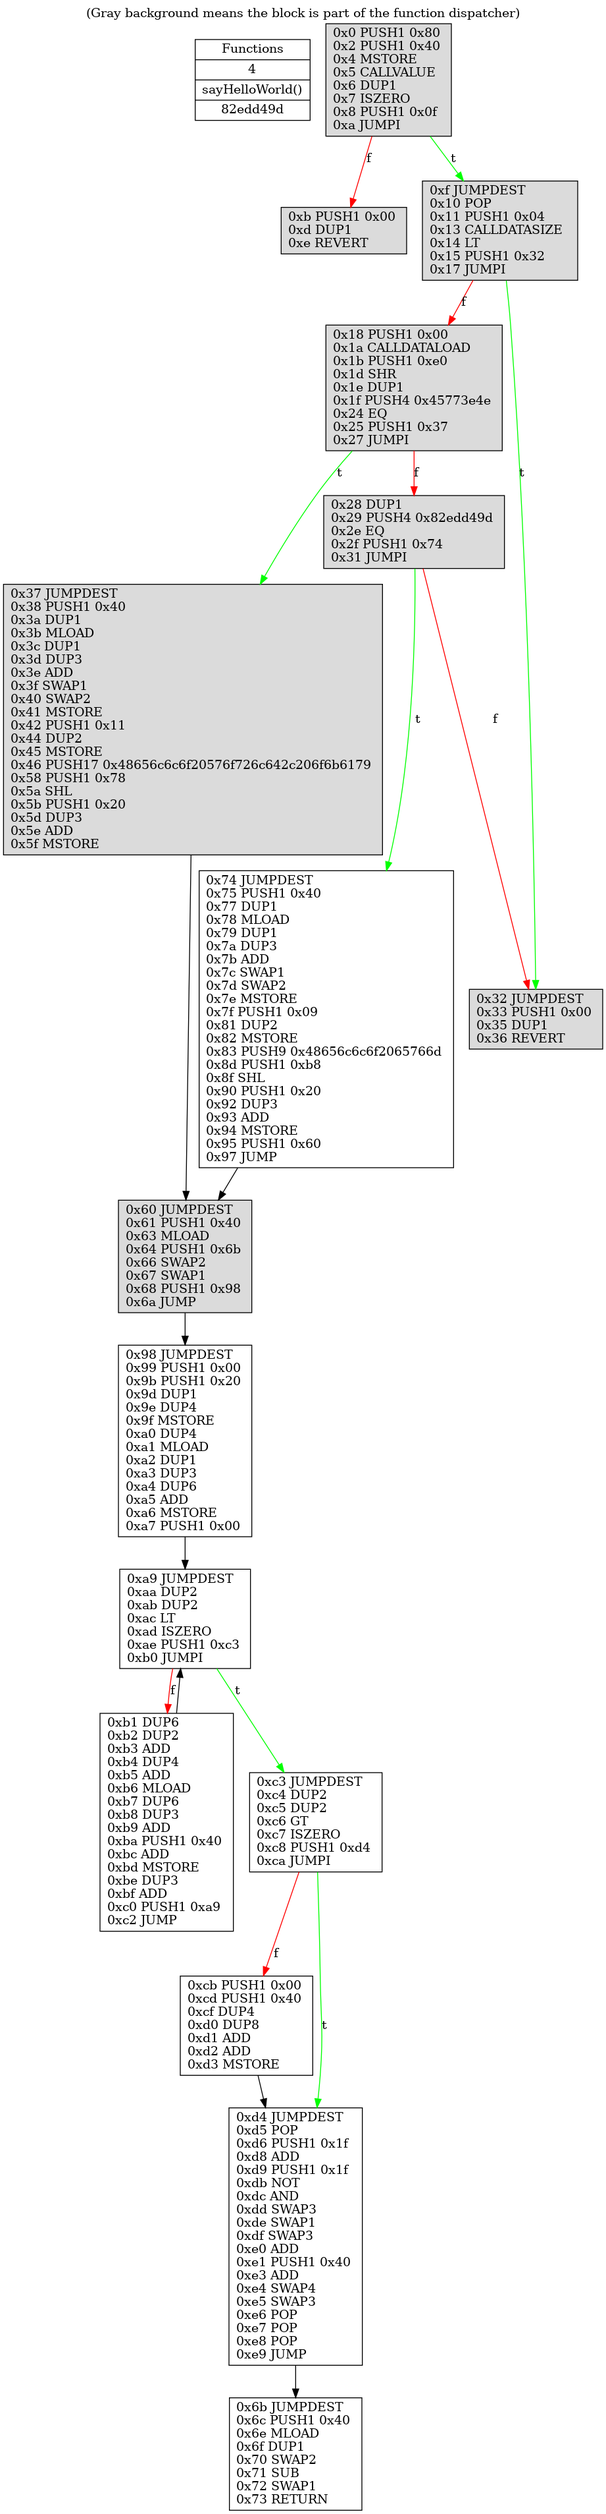
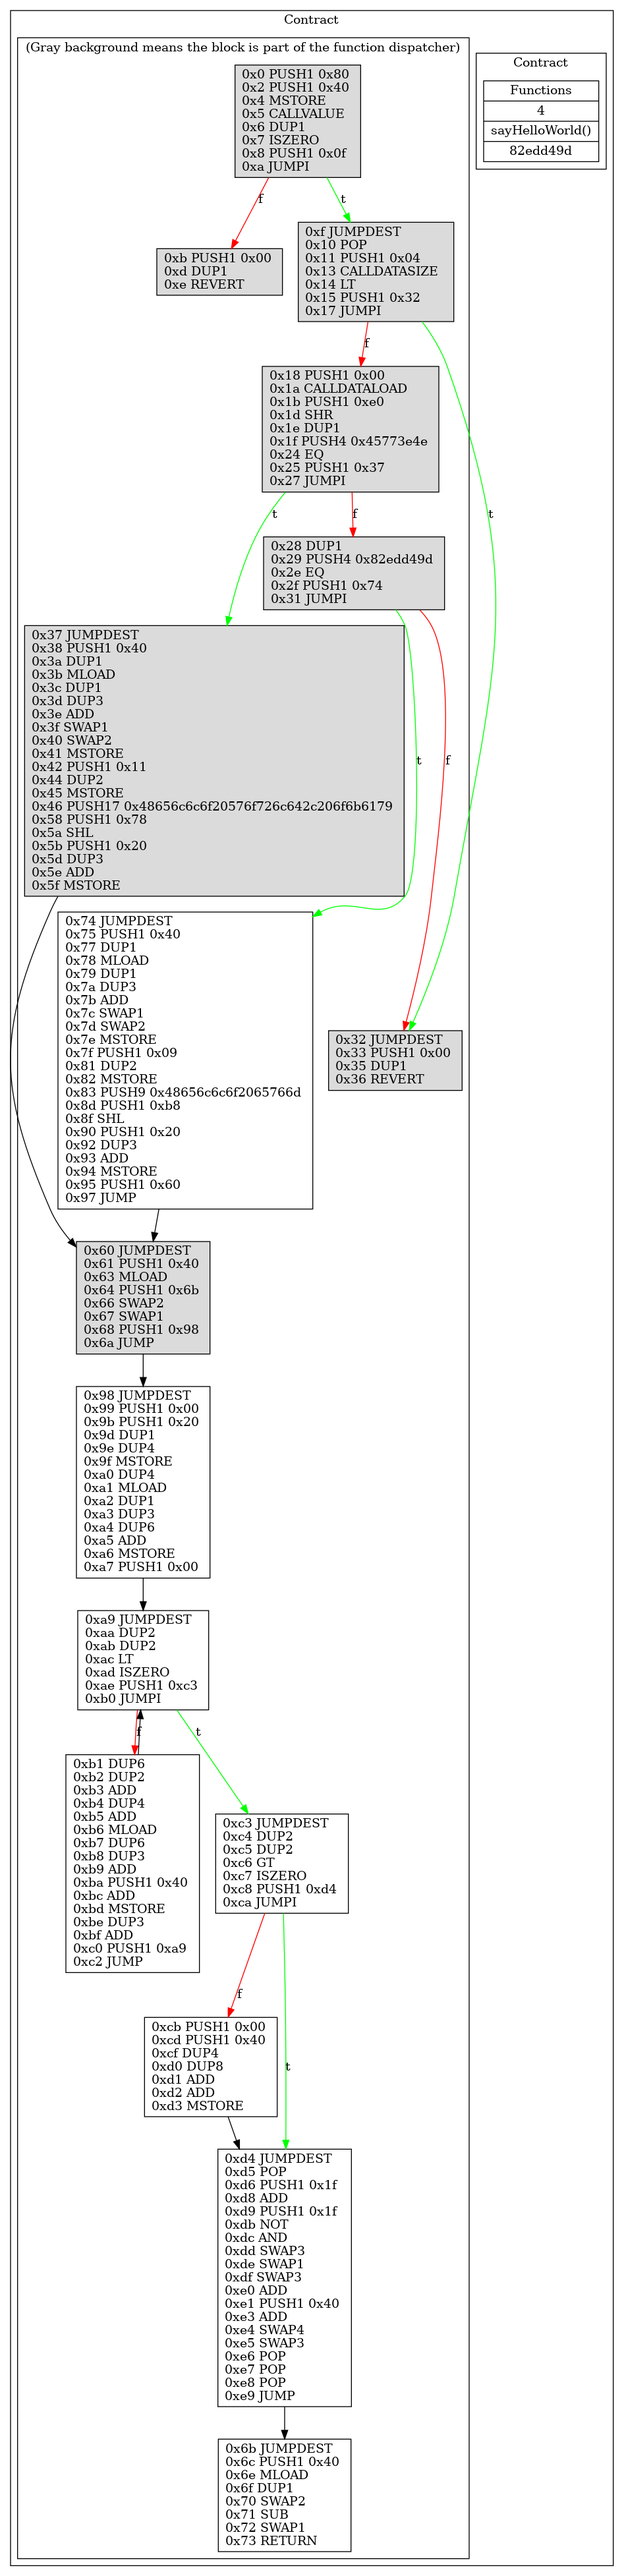
script for comparing vyper and solc cfg

Changed region(s): [[0.0, 0.0, 1.0, 1.0], [0.0608, 0.0, 0.0912, 0.0312]]

diff --git a/tiny-evm-decompiler/src/helpers/getContractPath.ts b/tiny-evm-decompiler/src/helpers/getContractPath.ts
@@ -2,25 +2,44 @@ import { parseArgs } from "node:util";
 import path from 'path';
 import fs from 'fs';
 
-export function getContractPath(dirname: string): Buffer {
+export function getContractPath(dirname: string): {
+    contract: Buffer,
+    output?: string
+} {
     const options = {
         contract: {
             type: "string",
             short: "c"
+        },
+        output: {
+            type: "string",
+            short: "o",
+            default: "cfg.json",
         }
     };
-    const {
-        values: { contract: contractPath },
+    let {
+        values: { contract: contractPath, output },
     } =
         // @ts-ignore
-        parseArgs({ options });
+        (parseArgs({ options })) as {
+            values: {
+                contract?: string;
+                output?: string;
+            }
+        };
+    if (!output){
+        output = 'cfg.json'
+    }
 
 
     if (!contractPath || typeof contractPath !== 'string') {
         throw new Error('No contract path');
-    }
+    } 
     const absContractPath = path.join(dirname, contractPath);
     // assumes build from forge
     const contract = JSON.parse(fs.readFileSync(absContractPath).toString('utf-8'))["deployedBytecode"]["object"].replace('0x', '');
-    return Buffer.from(contract, 'hex');
+    return {
+        contract: Buffer.from(contract, 'hex'),
+        output,
+    };
 }

diff --git a/tiny-evm-decompiler/src/BuildEtherSolveCFG.ts b/tiny-evm-decompiler/src/BuildEtherSolveCFG.ts
@@ -1,16 +1,18 @@
 import 'reflect-metadata'
 import { GetCodeBlocksInteractor } from "./interactors/GetCodeBlocksInteractor";
-import { GetControlsFlowInteractor, GraphCodeBlocks } from "./interactors/GetControlsFlowInteractor";
 import { GetOpcodesInteractor } from "./interactors/GetOpcodesInteractor";
 import fs from 'fs';
 import { getContractPath } from './helpers/getContractPath';
-import { ResolveOrphansInteractor } from './interactors/ResolveOrphansInteractor';
 import { GetContractFunctionsInteractor } from './interactors/dispatcher/GetContractFunctionsInteractor';
 import {
     BuildCfgInteractor
 } from './interactors/BuildCfgInteractor';
 
-const contract = getContractPath(__dirname);
+const {contract, output} = getContractPath(__dirname);
+console.log({
+    output,
+    contract: contract.toString('hex')
+})
 const opcodes = new GetOpcodesInteractor().getOpcodes({
     contract,
 })
@@ -23,7 +25,7 @@ const contractCodeBlocks = new GetCodeBlocksInteractor().getCodeBlocks(opcodes);
     const { graph } = await new BuildCfgInteractor().build({
         opcodes
     });
-    fs.writeFileSync('cfg.json', JSON.stringify({
+    fs.writeFileSync(output, JSON.stringify({
         graph,
         functions
     }));

diff --git a/tiny-evm-decompiler/src/BuildSsaCFG.ts b/tiny-evm-decompiler/src/BuildSsaCFG.ts
@@ -8,7 +8,7 @@ import { ResolveOrphansInteractor } from './interactors/ResolveOrphansInteractor
 import { GetGraphCodeBlockDispatcher } from './interactors/dispatcher/GetGraphCodeBlockDispatcher';
 import { GetSsaInteractor } from './interactors/ssa/GetSsaInteractor';
 
-const contract = getContractPath(__dirname);
+const { contract } = getContractPath(__dirname);
 const opcodes = new GetOpcodesInteractor().getOpcodes({
     contract,
 })

diff --git a/tiny-evm-decompiler/src/ExtractLog.ts b/tiny-evm-decompiler/src/ExtractLog.ts
@@ -4,7 +4,7 @@ import { GetOpcodesInteractor } from "./interactors/GetOpcodesInteractor";
 import { GetLogTopicsInteractor } from './interactors/GetLogTopicsInteractor';
 import { getContractPath } from './helpers/getContractPath';
 
-const contract = getContractPath(__dirname);
+const {contract} = getContractPath(__dirname);
 const opcodes = new GetOpcodesInteractor().getOpcodes({
   contract,
 })

diff --git a/tiny-evm-decompiler/src/helpers/SymbolicOpcodes.ts b/tiny-evm-decompiler/src/helpers/SymbolicOpcodes.ts
@@ -99,6 +99,14 @@ export const SymbolicOpcodes: Record<number, SymbolicOpcode> = {
         outputs: 1,
         consumes: 1,
     }),
+    0x54: new SymbolicOpcode({
+        outputs: 1,
+        consumes: 1,
+    }),
+    0x55: new SymbolicOpcode({
+        outputs: 0,
+        consumes: 2,
+    }),
     // JUMP
     0x56: new SymbolicOpcode({
         outputs: 0,

diff --git a/tiny-evm-decompiler/PlotCFG.py b/tiny-evm-decompiler/PlotCFG.py
@@ -29,6 +29,33 @@ def create_function_table():
     print(table)
     return " ".join(table)
 
+
+def plot_cfg(dot, graph, base=""):
+    for i in graph:
+        block_of_code = "".join(list(map(map_block, i["block"])))
+        is_path_of_dispatcher = i.get("isPartOfDispatcher", False)
+        node = base + i["name"]
+        print(node, is_path_of_dispatcher)
+
+        if is_path_of_dispatcher:
+            dot.node(node, block_of_code, shape="box", fontcolor="black", fillcolor="#dbdbdb", style="filled")
+        else:
+            dot.node(node, block_of_code, shape="box")
+
+    for i in graph:
+        from_node = base + i["name"]
+        # TODO: Should instead have this metadata in the json output
+        is_jumpi = (2 == len(i["calls"]))
+        for caller in i["calls"]:
+            to_node = base + caller
+            if is_jumpi:
+                if hex(i["endAddress"]) == "0x" + caller:
+                    dot.edge(from_node, to_node, color="red", label="f")
+                else:
+                    dot.edge(from_node, to_node, color="green", label="t")
+            else:
+                dot.edge(from_node, to_node)
+
 if __name__ == "__main__":
     name = "cfg" if len(sys.argv) == 1 else sys.argv[1]
     cfg = None
@@ -36,38 +63,21 @@ if __name__ == "__main__":
         cfg = json.load(file)
 
     dot = graphviz.Digraph(comment='cfg', format='png')
-    if len(cfg["functions"]):
-        dot.node(
-            "Node A", 
-            shape="record", 
-            label=create_function_table(),
-            pos='0, 0'
-        )
-    dot.attr(label="(Gray background means the block is part of the function dispatcher)", labelloc="t")
-    graph = cfg["graph"]
+    with dot.subgraph(name="cluster_outside1") as outside1:
+        outside1.attr(label="Contract")
 
-    for i in graph:
-        block_of_code = "".join(list(map(map_block, i["block"])))
-        is_path_of_dispatcher = i.get("isPartOfDispatcher", False)
-        print(i["name"], is_path_of_dispatcher)
+        with outside1.subgraph(name="cluster_inside1") as inside1:
+            if len(cfg["functions"]):
+                inside1.node(
+                    "Node A", 
+                    shape="record", 
+                    label=create_function_table(),
+                    pos='0, 0'
+                )
 
-        if is_path_of_dispatcher:
-            dot.node(i["name"], block_of_code, shape="box", fontcolor="black", fillcolor="#dbdbdb", style="filled")
-        else:
-            dot.node(i["name"], block_of_code, shape="box")
+        with outside1.subgraph(name="cluster_inside2") as inside2:
+            inside2.attr(label="(Gray background means the block is part of the function dispatcher)", labelloc="t")
+            graph = cfg["graph"]
 
-    for i in graph:
-        from_node = i["name"]
-        # TODO: Should instead have this metadata in the json output
-        is_jumpi = (2 == len(i["calls"]))
-        for to_node in i["calls"]:
-            if is_jumpi:
-                if hex(i["endAddress"]) == "0x" + to_node:
-                    dot.edge(from_node, to_node, color="red", label="f")
-                else:
-                    dot.edge(from_node, to_node, color="green", label="t")
-            else:
-                dot.edge(from_node, to_node)
-
-
+            plot_cfg(inside2, graph)
     dot.render(name, cleanup=True)

diff --git a/tiny-evm-decompiler/PlotSideBySideCfg.py b/tiny-evm-decompiler/PlotSideBySideCfg.py
@@ -1,0 +1,28 @@
+import graphviz
+import json
+import sys
+from PlotCFG import plot_cfg
+
+if __name__ == "__main__":
+    name = sys.argv[1]
+    first_cfg = sys.argv[2]
+    second_cfg = sys.argv[3]
+
+    dot = graphviz.Digraph(comment='cfg', format='png')
+    with dot.subgraph(name="cluster_outside1") as outside1:
+        outside1.attr(label=name)
+
+        for entry in [first_cfg, second_cfg]:
+            print(entry)
+            cfg = None
+            with open(entry, "r") as file:
+                cfg = json.load(file)
+            graph = cfg["graph"]
+
+            with outside1.subgraph(name="cluster_" + entry) as inside2:
+                inside2.attr(label=entry, labelloc="t")
+                graph = cfg["graph"]
+
+                plot_cfg(inside2, graph, entry)
+
+    dot.render(name, cleanup=True)

diff --git a/example_contracts/vyper_2_foundry_like_json.py b/example_contracts/vyper_2_foundry_like_json.py
@@ -6,11 +6,15 @@ lines = []
 for line in sys.stdin:
     lines.append(line)
 
-
-with open(os.path.join(
+file_path = os.path.join(
     os.path.dirname(os.path.abspath(__file__)),
     sys.argv[1]
-), "w") as file:
+)
+os.makedirs(
+    os.path.dirname(file_path),
+    exist_ok=True
+)
+with open(file_path, "w") as file:
     file.write(json.dumps({
         "deployedBytecode": {
             "object": "".join(lines).replace("\n", "")
